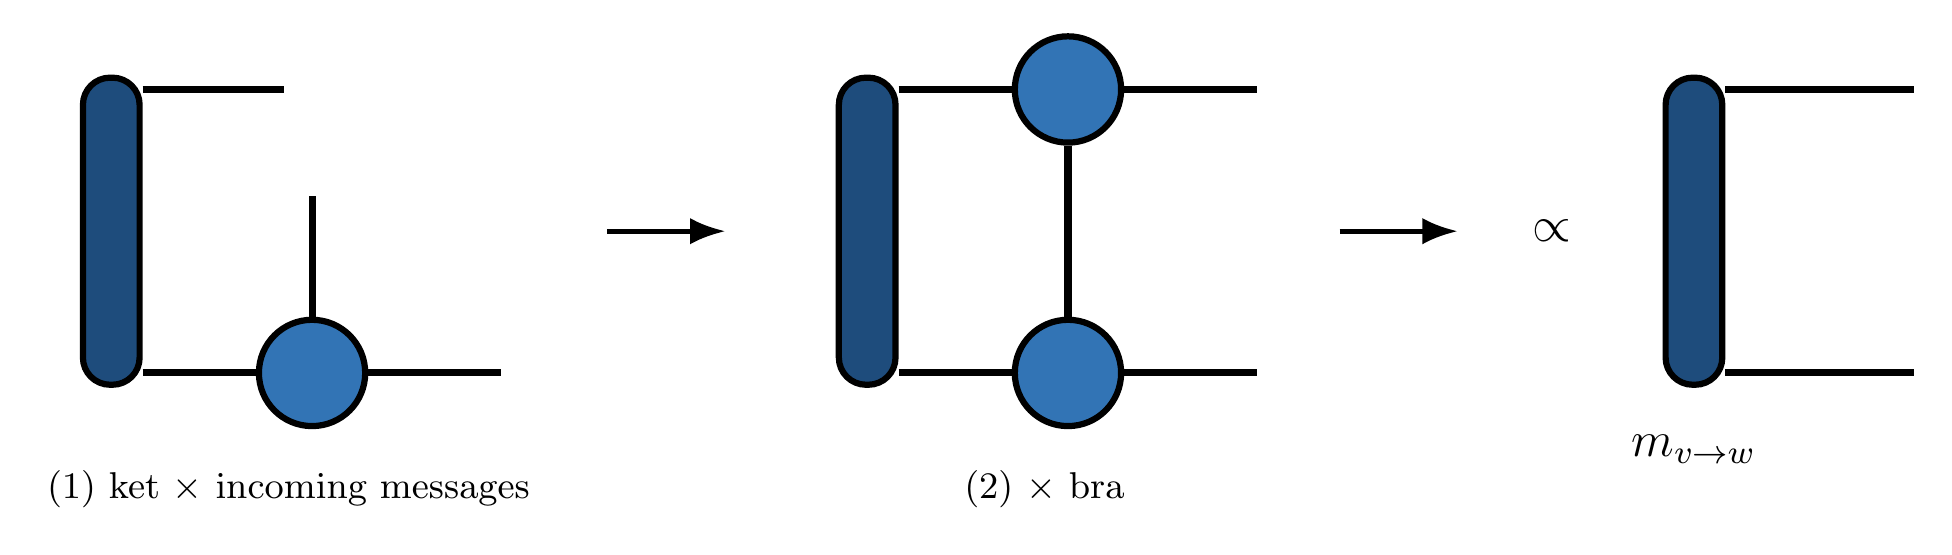
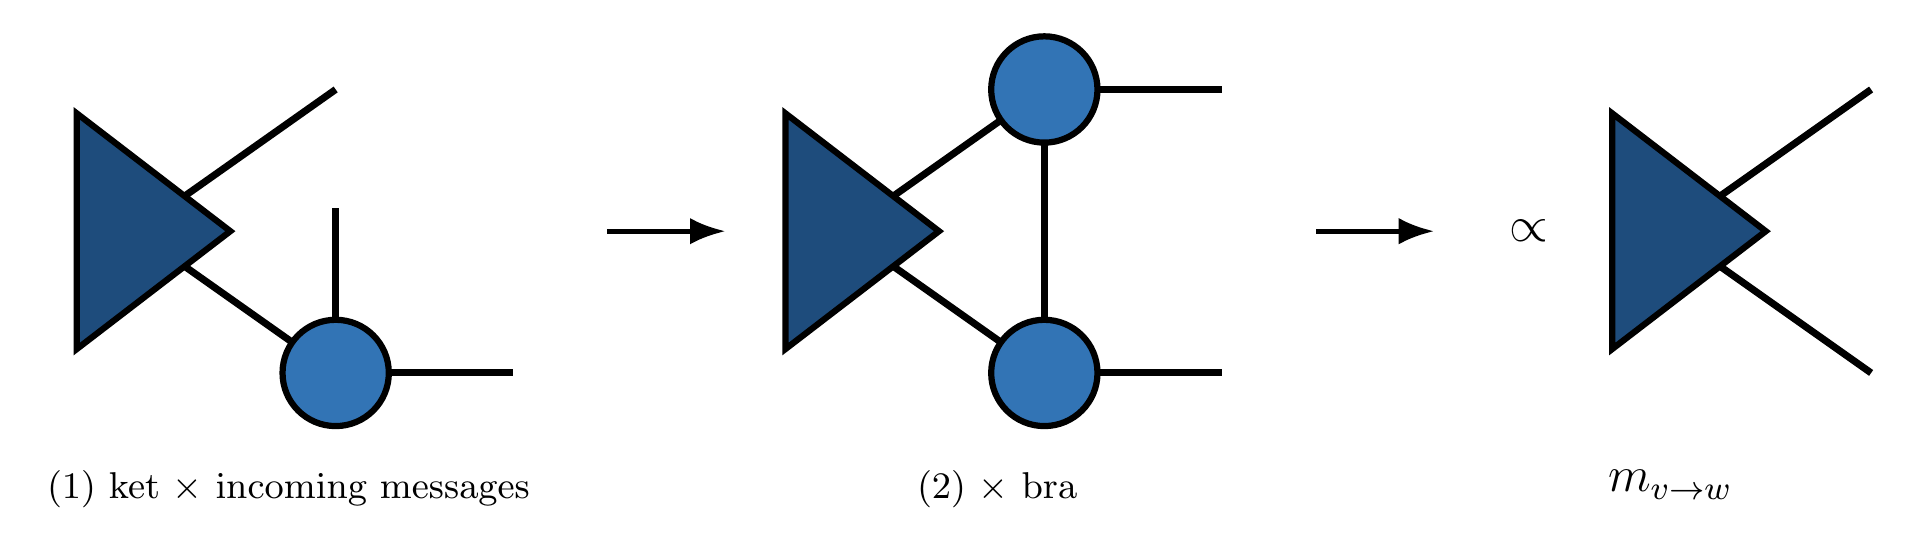
Draw messages as triangles and cite the published cluster expansion papers
Messages in the Hands On 4 diagrams were rounded blobs. Draw them as triangles
pointing in the direction the message travels, which is the usual convention
and makes the flow of the update rule visible. A matrix valued message on the
norm network is a single triangle with its two legs fanning out to the ket and
the bra, rather than one stretched to span both rows.

Both cluster expansion preprints have been published since the README was
written: Gray et al. in Phys. Rev. B 113, 235135 (2026) and Midha and Zhang in
PRX Quantum 7, 033010 (2026). Cite the journal versions, keeping the arXiv
identifiers alongside.

diff --git a/Tutorials/HandsOn4/resources/diagrams/5-lazy_contraction.tex b/Tutorials/HandsOn4/resources/diagrams/5-lazy_contraction.tex
@@ -2,37 +2,38 @@
 \input{common}
 \begin{document}
 \begin{tikzpicture}
-  % (a) ket with the incoming message absorbed
+  % (1) ket with the incoming message absorbed; the bra leg of the message is still free
   \begin{scope}
-    \node[msgtall] (M) at (0,1.2) {};
-    \node[tensor] (k) at (1.7,0) {};
-    \draw[leg] (M.east |- k) -- (k);
-    \draw[leg] (k) -- ++(0,1.5);
-    \draw[leg] (k) -- ++(1.6,0);
-    \draw[leg] (M.east |- 0,2.4) -- ++(1.2,0);
-    \node[anchor=north,align=center] at (1.5,-0.7) {\small(1) ket $\times$ incoming messages};
+    \coordinate (M) at (0,1.2);
+    \coordinate (k) at (1.7,0);
+    \draw[leg] (M) -- (k);
+    \draw[leg] (M) -- (1.7,2.4);
+    \draw[leg] (k) -- ++(0,1.4);
+    \draw[leg] (k) -- ++(1.5,0);
+    \node[msgmat] at (M) {};
+    \node[tensor] at (k) {};
+    \node[anchor=north,align=center] at (1.3,-0.7) {\small(1) ket $\times$ incoming messages};
   \end{scope}
-  \draw[arrow] (4.2,1.2) -- (5.2,1.2);
-  % (b) close with the bra
-  \begin{scope}[xshift=6.4cm]
-    \node[msgtall] (M) at (0,1.2) {};
-    \node[tensor] (k) at (1.7,0) {};
-    \node[tensor] (b) at (1.7,2.4) {};
-    \draw[leg] (M.east |- k) -- (k);
-    \draw[leg] (M.east |- b) -- (b);
+  \draw[arrow] (4.0,1.2) -- (5.0,1.2);
+  % (2) close with the bra
+  \begin{scope}[xshift=6.0cm]
+    \coordinate (M) at (0,1.2);
+    \coordinate (k) at (1.7,0); \coordinate (b) at (1.7,2.4);
+    \draw[leg] (M) -- (k); \draw[leg] (M) -- (b);
     \draw[leg] (k) -- (b);
-    \draw[leg] (k) -- ++(1.6,0);
-    \draw[leg] (b) -- ++(1.6,0);
-    \node[anchor=north,align=center] at (1.5,-0.7) {\small(2) $\times$ bra};
+    \draw[leg] (k) -- ++(1.5,0); \draw[leg] (b) -- ++(1.5,0);
+    \node[msgmat] at (M) {};
+    \node[tensor] at (k) {}; \node[tensor] at (b) {};
+    \node[anchor=north,align=center] at (1.3,-0.7) {\small(2) $\times$ bra};
   \end{scope}
-  \draw[arrow] (10.4,1.2) -- (11.4,1.2);
-  % (c) the new message
-  \begin{scope}[xshift=12.4cm]
-    \node[lab] at (-0.2,1.2) {$\propto$};
-    \node[msgtall] (N) at (1.0,1.2) {};
-    \draw[leg] (N.east |- 0,0)   -- ++(1.6,0);
-    \draw[leg] (N.east |- 0,2.4) -- ++(1.6,0);
-    \node[lab,anchor=north] at (1.0,-0.4) {$m_{v \to w}$};
+  \draw[arrow] (10.0,1.2) -- (11.0,1.2);
+  % (3) the new message
+  \begin{scope}[xshift=11.8cm]
+    \node[lab] at (0,1.2) {$\propto$};
+    \coordinate (N) at (1.2,1.2);
+    \draw[leg] (N) -- (2.9,0); \draw[leg] (N) -- (2.9,2.4);
+    \node[msgmat] at (N) {};
+    \node[lab,anchor=north] at (1.2,-0.7) {$m_{v \to w}$};
   \end{scope}
 \end{tikzpicture}
 \end{document}

diff --git a/Tutorials/HandsOn4/resources/diagrams/common.tex b/Tutorials/HandsOn4/resources/diagrams/common.tex
@@ -1,6 +1,6 @@
 % Shared styles for the Hands-On 4 diagrams. Colours match the Hands-On 1 diagrams.
 \usepackage{amsmath,amssymb}
-\usetikzlibrary{positioning,calc,arrows.meta,decorations.pathreplacing}
+\usetikzlibrary{positioning,calc,arrows.meta,decorations.pathreplacing,shapes.geometric}
 \definecolor{tensorblue}{HTML}{3274B5}
 \definecolor{envblue}{HTML}{1E4C7C}
 \definecolor{opteal}{HTML}{357A76}
@@ -11,9 +11,14 @@
   vertex/.style={circle,draw,line width=1.0pt,fill=white,minimum size=6mm,inner sep=0,font=\small},
   copy/.style={circle,draw,line width=1.5pt,fill=black,minimum size=3.6mm,inner sep=0},
   op/.style={rectangle,draw,line width=1.5pt,fill=opteal,minimum size=5.6mm,inner sep=0},
-  msg/.style={rectangle,rounded corners=2.3mm,draw,line width=1.5pt,fill=envblue,minimum width=4.8mm,minimum height=11mm,inner sep=0},
-  msgh/.style={msg,minimum width=11mm,minimum height=4.8mm},
-  msgtall/.style={msg,minimum height=26mm},
+  % messages are triangles pointing in the direction the message travels
+  msg/.style={isosceles triangle,isosceles triangle apex angle=75,draw,line width=1.5pt,fill=envblue,inner sep=0,
+              minimum width=8mm,minimum height=10mm,shape border rotate=0},
+  msgl/.style={msg,shape border rotate=180},
+  msgu/.style={msg,shape border rotate=90},
+  msgd/.style={msg,shape border rotate=270},
+  % a matrix message: a slightly larger triangle, its two legs fan out from it
+  msgmat/.style={msg,minimum width=10mm,minimum height=13mm},
   lab/.style={font=\large},
   code/.style={font=\ttfamily\large},
   arrow/.style={-{Latex[length=3mm]},line width=1.2pt},

diff --git a/Tutorials/HandsOn4/resources/diagrams/5-norm_network.tex b/Tutorials/HandsOn4/resources/diagrams/5-norm_network.tex
@@ -2,6 +2,9 @@
 \input{common}
 \begin{document}
 \begin{tikzpicture}
+  % a message is a matrix: it carries both the ket leg and the bra leg of an edge
+  \coordinate (M) at (0.5,1.2);
+  \draw[leg] (M) -- (2.0,0); \draw[leg] (M) -- (2.0,2.4);
   % ket layer (bottom) and bra layer (top) on a path of three vertices
   \foreach \i in {1,2,3} {
     \node[tensor] (k\i) at (2.0*\i,0) {};
@@ -9,16 +12,14 @@
     \draw[leg] (k\i) -- (b\i);
   }
   \foreach \i/\j in {1/2,2/3} { \draw[leg] (k\i) -- (k\j); \draw[leg] (b\i) -- (b\j); }
-  \draw[leg] (k1) -- ++(-1.6,0); \draw[leg] (b1) -- ++(-1.6,0);
   \draw[leg] (k3) -- ++(1.4,0);  \draw[leg] (b3) -- ++(1.4,0);
-  \node[code,anchor=east] at (-1.0,2.4) {bra\_tensor(state, v)};
-  \node[code,anchor=east] at (-1.0,0.0) {ket\_tensor(state, v)};
+  \node[msgmat] at (M) {};
+  \node[code,anchor=east] at (-0.6,2.4) {bra\_tensor(state, v)};
+  \node[lab,anchor=east]  at (-0.6,1.2) {$m_{u \to v}$};
+  \node[code,anchor=east] at (-0.6,0.0) {ket\_tensor(state, v)};
   \node[lab] at (4.0,-0.85) {$v$};
   \node[lab,anchor=west] at (7.55,0.0) {$\ell$};
   \node[lab,anchor=west] at (7.55,2.4) {$\ell'$};
   \node[lab,anchor=west] at (4.15,1.2) {\small$s_v$};
-  % a message is a matrix: it spans both legs of an edge
-  \node[msgtall] (M) at (0.5,1.2) {};
-  \node[lab,anchor=north] at (0.5,-0.55) {$m_{u \to v}$};
 \end{tikzpicture}
 \end{document}

diff --git a/Tutorials/HandsOn4/resources/diagrams/4-loop_correction.tex b/Tutorials/HandsOn4/resources/diagrams/4-loop_correction.tex
@@ -4,16 +4,17 @@
 \begin{tikzpicture}
   \node[lab] at (-3.6,0) {$Z_\ell \;=$};
   % a loop of four tensors of a square lattice: two legs each leave the loop
-  \node[tensor] (a) at (-1,1) {};
-  \node[tensor] (b) at (1,1) {};
-  \node[tensor] (c) at (1,-1) {};
-  \node[tensor] (d) at (-1,-1) {};
+  \coordinate (a) at (-1,1); \coordinate (b) at (1,1); \coordinate (c) at (1,-1); \coordinate (d) at (-1,-1);
   \draw[leg] (a) -- (b) -- (c) -- (d) -- (a);
   \foreach \n/\dx/\dy in {a/-1/0,a/0/1,b/1/0,b/0/1,c/1/0,c/0/-1,d/-1/0,d/0/-1} {
     \draw[leg] (\n) -- ++(1.5*\dx,1.5*\dy);
   }
-  \foreach \n/\dx/\dy in {a/-1/0,b/1/0,c/1/0,d/-1/0} { \node[msg] at ($(\n)+(1.5*\dx,0)$) {}; }
-  \foreach \n/\dx/\dy in {a/0/1,b/0/1,c/0/-1,d/0/-1} { \node[msgh] at ($(\n)+(0,1.5*\dy)$) {}; }
+  \foreach \n in {a,b,c,d} { \node[tensor] at (\n) {}; }
+  % every message points into the loop
+  \node[msg]  at ($(a)+(-1.5,0)$) {}; \node[msg]  at ($(d)+(-1.5,0)$) {};
+  \node[msgl] at ($(b)+(1.5,0)$) {};  \node[msgl] at ($(c)+(1.5,0)$) {};
+  \node[msgd] at ($(a)+(0,1.5)$) {};  \node[msgd] at ($(b)+(0,1.5)$) {};
+  \node[msgu] at ($(d)+(0,-1.5)$) {}; \node[msgu] at ($(c)+(0,-1.5)$) {};
   \node[anchor=west] at (3.2,0.3) {\small the four tensors of the loop $\ell$,};
   \node[anchor=west] at (3.2,-0.3) {\small closed by the messages arriving from outside it};
 \end{tikzpicture}

diff --git a/Tutorials/HandsOn4/resources/diagrams/2-message_update.tex b/Tutorials/HandsOn4/resources/diagrams/2-message_update.tex
@@ -3,21 +3,23 @@
 \begin{document}
 \begin{tikzpicture}
   \node[lab] at (-2.2,0) {$m_{v \to w} \;\propto$};
-  % T_v with legs left (from u1), up (from u2), right (to w)
-  \node[tensor] (T) at (3.0,0) {};
-  \node[lab] at (3.0,-0.85) {$T_v$};
+  % T_v with legs left (from u1), up (from u2), right (to w); legs first, nodes on top
+  \coordinate (T) at (3.0,0);
   \draw[leg] (T) -- ++(-1.6,0);
   \draw[leg] (T) -- ++(0,1.6);
   \draw[leg] (T) -- ++(1.7,0);
-  \node[msg] at (1.4,0) {};
-  \node[msgh] at (3.0,1.6) {};
-  \node[lab,anchor=east] at (1.05,0) {$m_{u_1 \to v}$};
-  \node[lab,anchor=south] at (3.0,1.95) {$m_{u_2 \to v}$};
+  \node[tensor] at (T) {};
+  \node[lab] at (3.0,-0.85) {$T_v$};
+  \node[msg]  at (1.4,0) {};
+  \node[msgd] at (3.0,1.6) {};
+  \node[lab,anchor=east] at (0.9,0) {$m_{u_1 \to v}$};
+  \node[lab,anchor=south] at (3.0,2.1) {$m_{u_2 \to v}$};
   \node[lab,anchor=west] at (4.75,0) {$w$};
   % result: a single message on the leg towards w
   \node[lab] at (6.6,0) {$\propto$};
-  \node[msg] (M) at (7.9,0) {};
+  \coordinate (M) at (7.9,0);
   \draw[leg] (M) -- ++(1.7,0);
+  \node[msg] at (M) {};
   \node[lab,anchor=south] at (7.9,0.65) {$m_{v \to w}$};
   \node[lab,anchor=west] at (9.65,0) {$w$};
 \end{tikzpicture}

diff --git a/Tutorials/HandsOn4/resources/diagrams/2-phi_factor.tex b/Tutorials/HandsOn4/resources/diagrams/2-phi_factor.tex
@@ -3,16 +3,17 @@
 \begin{document}
 \begin{tikzpicture}
   \node[lab] at (-2.0,0) {$Z_v \;=$};
-  \node[tensor] (T) at (2.6,0) {};
-  \node[lab] at (2.6,-0.85) {$T_v$};
+  \coordinate (T) at (2.6,0);
   \draw[leg] (T) -- ++(-1.6,0);
   \draw[leg] (T) -- ++(0,1.6);
   \draw[leg] (T) -- ++(1.6,0);
-  \node[msg] at (1.0,0) {};
-  \node[msgh] at (2.6,1.6) {};
-  \node[msg] at (4.2,0) {};
-  \node[lab,anchor=east] at (0.65,0) {$m_{u_1 \to v}$};
-  \node[lab,anchor=south] at (2.6,1.95) {$m_{u_2 \to v}$};
-  \node[lab,anchor=west] at (4.55,0) {$m_{u_3 \to v}$};
+  \node[tensor] at (T) {};
+  \node[lab] at (2.6,-0.85) {$T_v$};
+  \node[msg]  at (1.0,0) {};
+  \node[msgd] at (2.6,1.6) {};
+  \node[msgl] at (4.2,0) {};
+  \node[lab,anchor=east] at (0.5,0) {$m_{u_1 \to v}$};
+  \node[lab,anchor=south] at (2.6,2.1) {$m_{u_2 \to v}$};
+  \node[lab,anchor=west] at (4.7,0) {$m_{u_3 \to v}$};
 \end{tikzpicture}
 \end{document}

diff --git a/Tutorials/HandsOn4/resources/diagrams/2-messages_are_environments.tex b/Tutorials/HandsOn4/resources/diagrams/2-messages_are_environments.tex
@@ -16,8 +16,9 @@
     \draw[leg] (a) -- (b);
     \draw[leg] (b) -- ++(1.6,0);
     \node[lab] at (7.0,0) {$\propto$};
-    \node[msg] (M) at (8.2,0) {};
+    \coordinate (M) at (8.2,0);
     \draw[leg] (M) -- ++(1.6,0);
+    \node[msg] at (M) {};
   \end{scope}
 \end{tikzpicture}
 \end{document}

diff --git a/Tutorials/HandsOn4/README.md b/Tutorials/HandsOn4/README.md
@@ -173,7 +173,7 @@ In the previous tutorial, we contracted the tensor network exactly by multiplyin
 
 In this tutorial we are going to contract tensor networks in an efficient, but approximate manner via belief propagation (BP). The BP code lives in the file [belief_propagation.jl](./belief_propagation.jl). It is not fully implemented, and you are asked to finish implementing it. Tutorials 3 and 4 both use this file, so they will only give correct answers once you have completed it.
 
-**The algorithm.** BP associates a *message* to every directed edge $v \to w$ of the graph. A message $m_{v \to w}$ is a vector (an `ITensor` with a single index) living on the index shared by the tensors $T_v$ and $T_w$. You can think of it as an approximation to the environment that vertex $w$ sees when it looks towards $v$, exactly like the `L` and `R` environment tensors you built in Hands-On 1 when computing an expectation value of an MPS. The messages are determined self-consistently by the update rule
+**The algorithm.** BP associates a *message* to every directed edge $v \to w$ of the graph. A message $m_{v \to w}$ is a an `ITensor` living on the indices shared by the tensors $T_v$ and $T_w$. You can think of it as an approximation to the environment that vertex $w$ sees when it looks towards $v$, exactly like the `L` and `R` environment tensors you built in Hands-On 1 when computing an expectation value of an MPS. The messages are determined self-consistently by the update rule
 
 $$m_{v \to w} \propto T_{v} \prod_{u \in \partial v,\, u \neq w} m_{u \to v},$$
 
@@ -191,7 +191,7 @@ Starting from some initial guess, all the messages are updated repeatedly until 
 
 and the BP approximation to the free energy density is
 
-$$\phi_{BP} = \frac{1}{N}\sum_{v} \ln Z_{v},$$
+$$\phi_{BP} = \frac{1}{N}\sum_{v} \ln Z_{v} \approx \frac{1}{N}\ln Z ,$$
 
 after the messages have been suitably normalized (that part is done for you). On a tree the messages are exactly the environments and BP is exact. On a path graph, for example, the message $m_{2 \to 3}$ is everything to the left of that edge contracted together, playing the same role as the `L` environment you built in Hands-On 1. On a graph with loops BP is an approximation.
 
@@ -271,7 +271,7 @@ julia> res.phi_bp_tn
 
 $$\phi_{OBC}(\beta) = \frac{1}{L_{x}}\ln\left(2\cosh^{L_{x}-1}(\beta)\right).$$
 
-They agree, even though we used BP to compute it. Why?
+They should agree if you're BP implementation is correct, even though we used BP to compute it. Why?
 
 2. We can also get the BP approximated free energy density for a periodic ring.
 ```julia
@@ -312,7 +312,7 @@ julia> phi_bps = [res.phi_bp_tn for res in results];
 
 Congratulations. You just approximately solved the 2D Ising model on a 15x15 square lattice for twenty one different inverse temperatures in a matter of seconds.
 
-3. How does the number of iterations that BP took to converge (`res.niters`) depend on the inverse temperature? Plot this. Where's the peak? Is it near the critical point $\beta_{c} = \ln(1 + \sqrt{2})/2 \approx 0.4407$ of the 2D model? Or somewhere different?
+3. How does the number of iterations that BP took to converge (`res.niters`) depend on the inverse temperature? Plot this. Where's the peak? Is it near the known critical point $\beta_{c} = \ln(1 + \sqrt{2})/2 \approx 0.4407$ of the 2D model? Or somewhere different?
 
 <p align="center">
   <img src="resources/images/3-bp_niters_vs_beta.png" alt="BP iterations to converge versus beta" width="500">
@@ -400,7 +400,12 @@ julia> plot(betas, [bp_errs, bp_corrected_errs]; xlabel = "β", ylabel = "Absolu
 
 2. By how much does the correction reduce the error at its peak? Where does the correction help the most and where does it help the least? What do you think happens at higher orders in the expansion?
 
-Using cluster expanded results to improve tensor network contraction is an active research area. In October 2025 two papers appeared on the arXiv about this (https://arxiv.org/abs/2510.05647 and https://arxiv.org/abs/2510.02290) and we used the expansion written in Eq. (5) of the former, so you are now at the bleeding edge of research in this area.
+Using cluster expansions to improve tensor network contraction is an active research area. Two papers on it appeared in October 2025 and have since been published:
+
+- J. Gray, G. Park, G. Evenbly, N. Pancotti, E. F. Kjønstad and G. K.-L. Chan, [Tensor network loop cluster expansions for quantum many-body problems](https://doi.org/10.1103/r6mz-6q3g), Phys. Rev. B **113**, 235135 (2026), [arXiv:2510.05647](https://arxiv.org/abs/2510.05647).
+- S. Midha and Y. F. Zhang, [Beyond belief propagation: cluster-corrected tensor network contraction with exponential convergence](https://doi.org/10.1103/sdlx-d3tn), PRX Quantum **7**, 033010 (2026), [arXiv:2510.02290](https://arxiv.org/abs/2510.02290).
+
+The expansion used here is Eq. (5) of the first paper, so you are now at the bleeding edge of research in this area.
 
 This is the end of the current tutorial, continue on to the next tutorial or click [here](#table-of-contents) to return to the table of contents.
 
